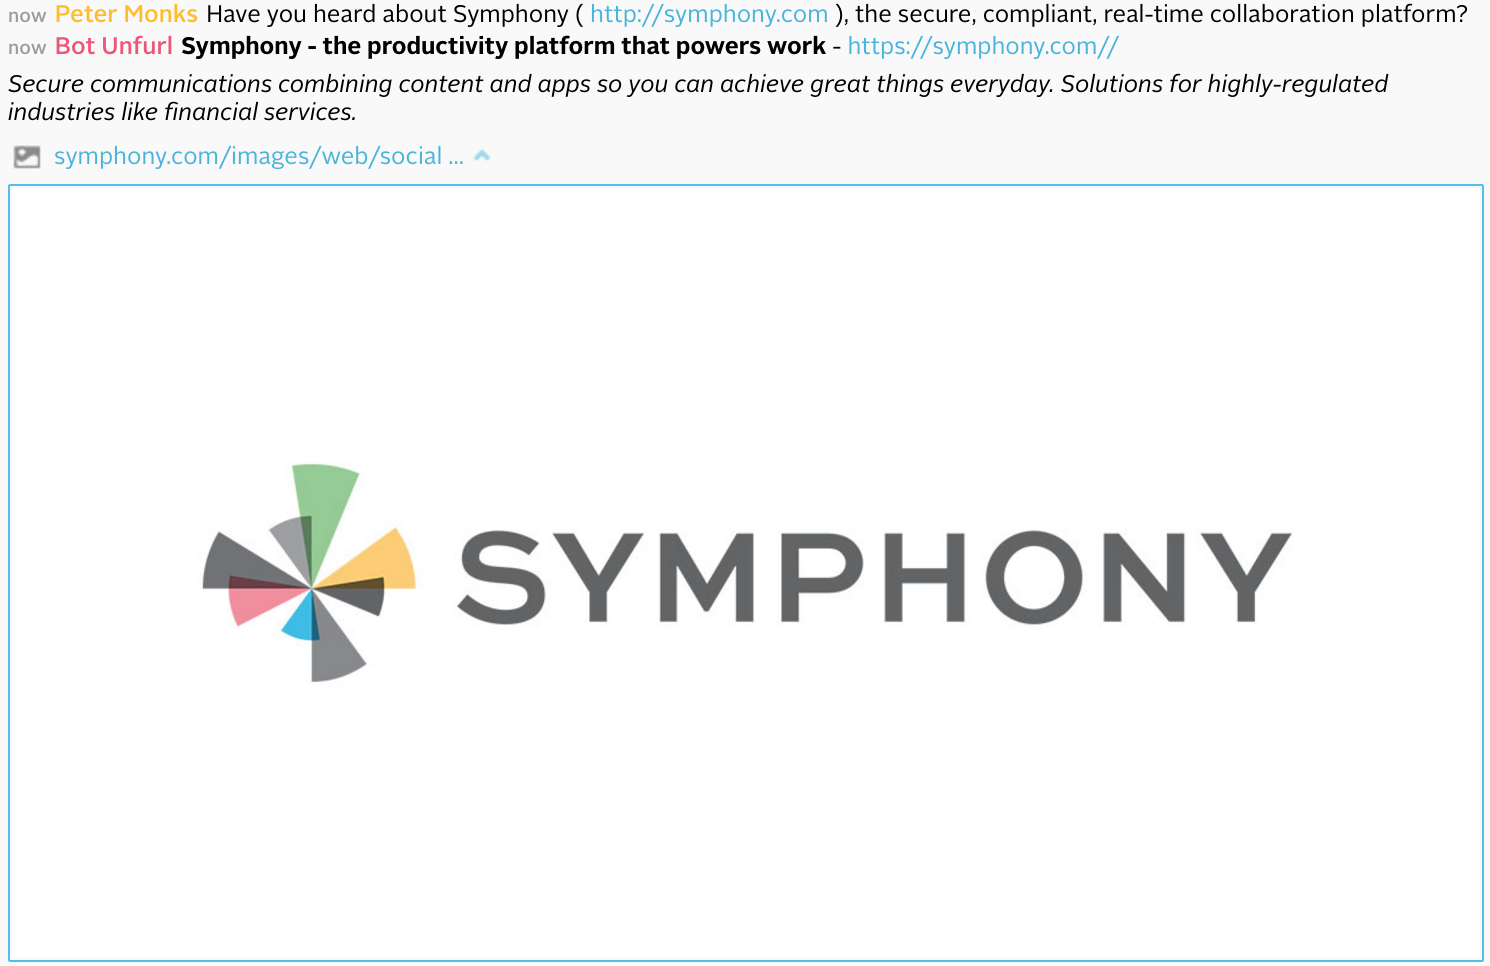
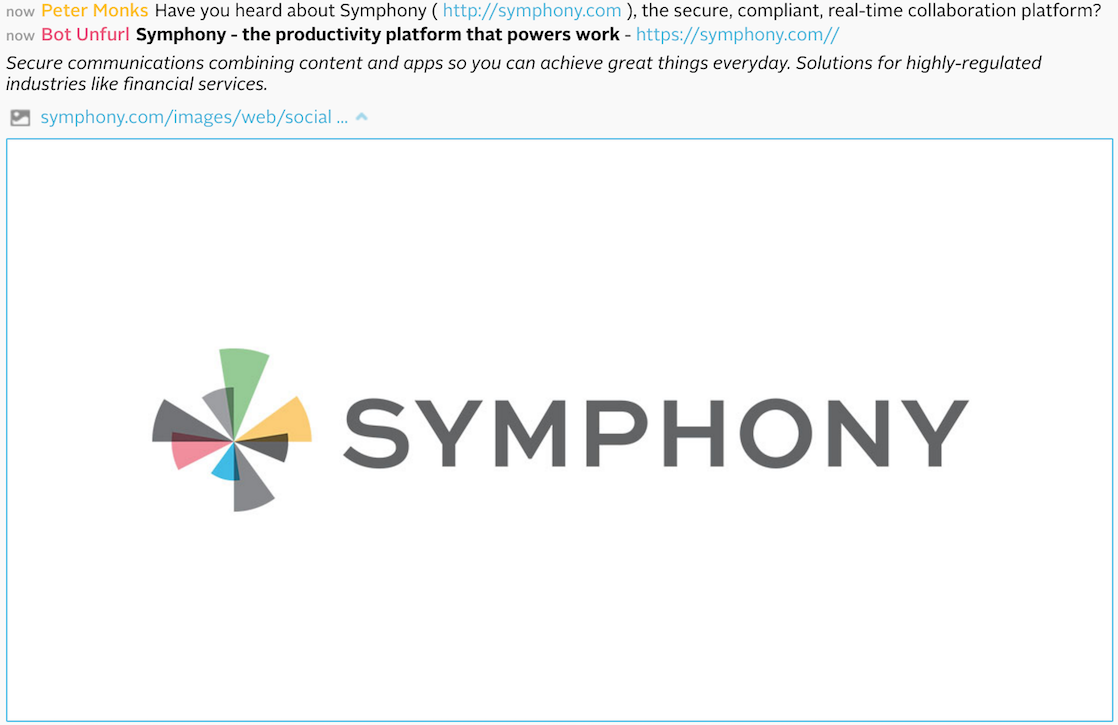
:memo: Image shenanigans

diff --git a/README.md b/README.md
@@ -14,8 +14,9 @@ URLs posted to any chat or room the bot is invited to.
 preview image, etc.), formatting those elements into a human-readable message, and posting it back to the same chat.
 
 Here it is in action:
-
-![Bot Unfurl Example](bot-unfurl-example.png)
+<p align="center">
+  ![Bot Unfurl Example](bot-unfurl-example.png)
+</p>
 
 ## Installation
 
